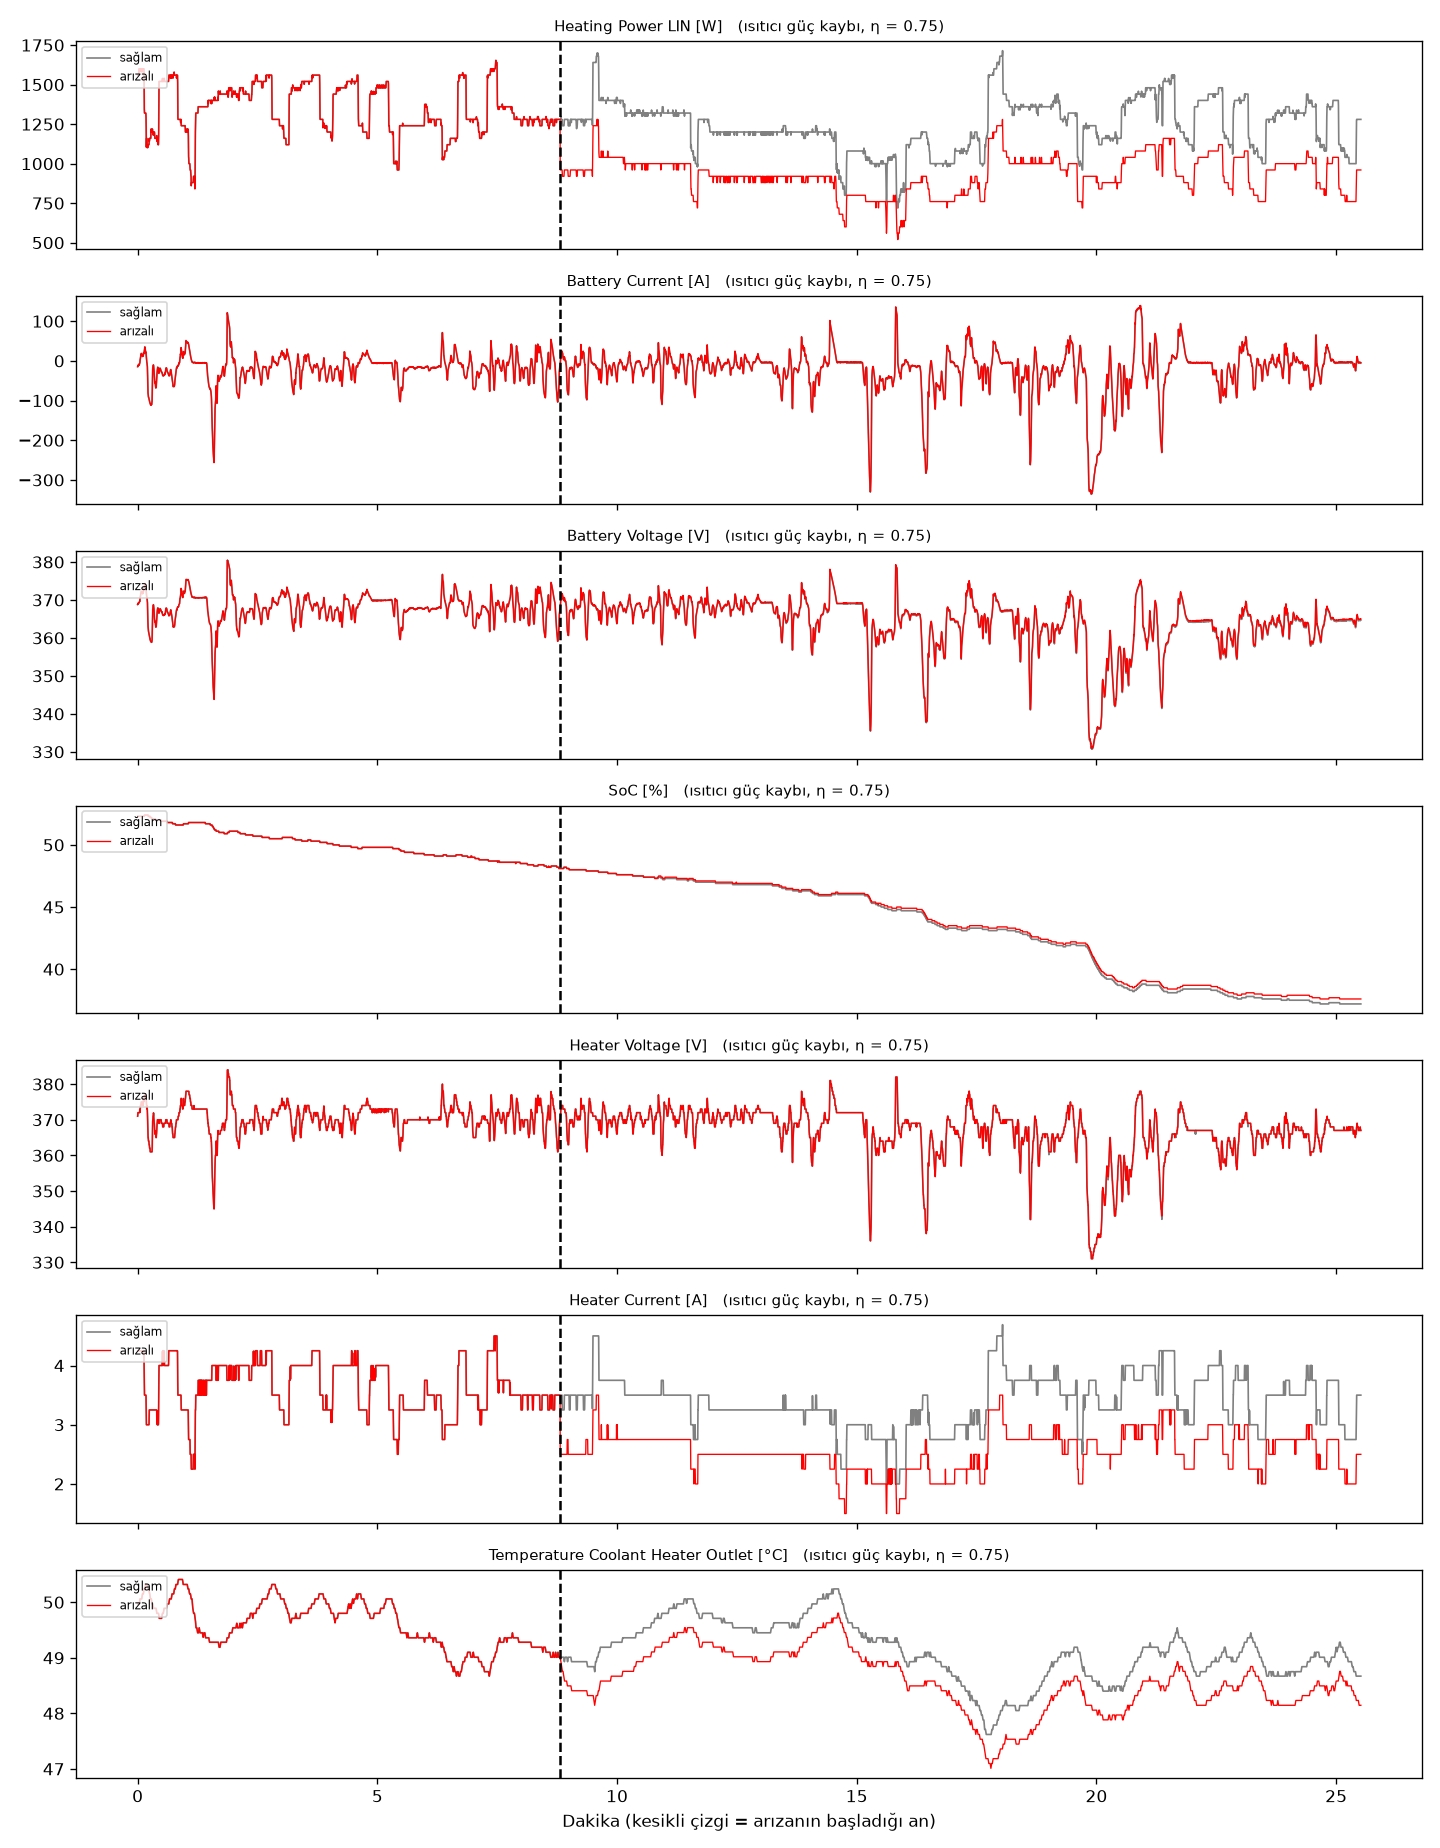
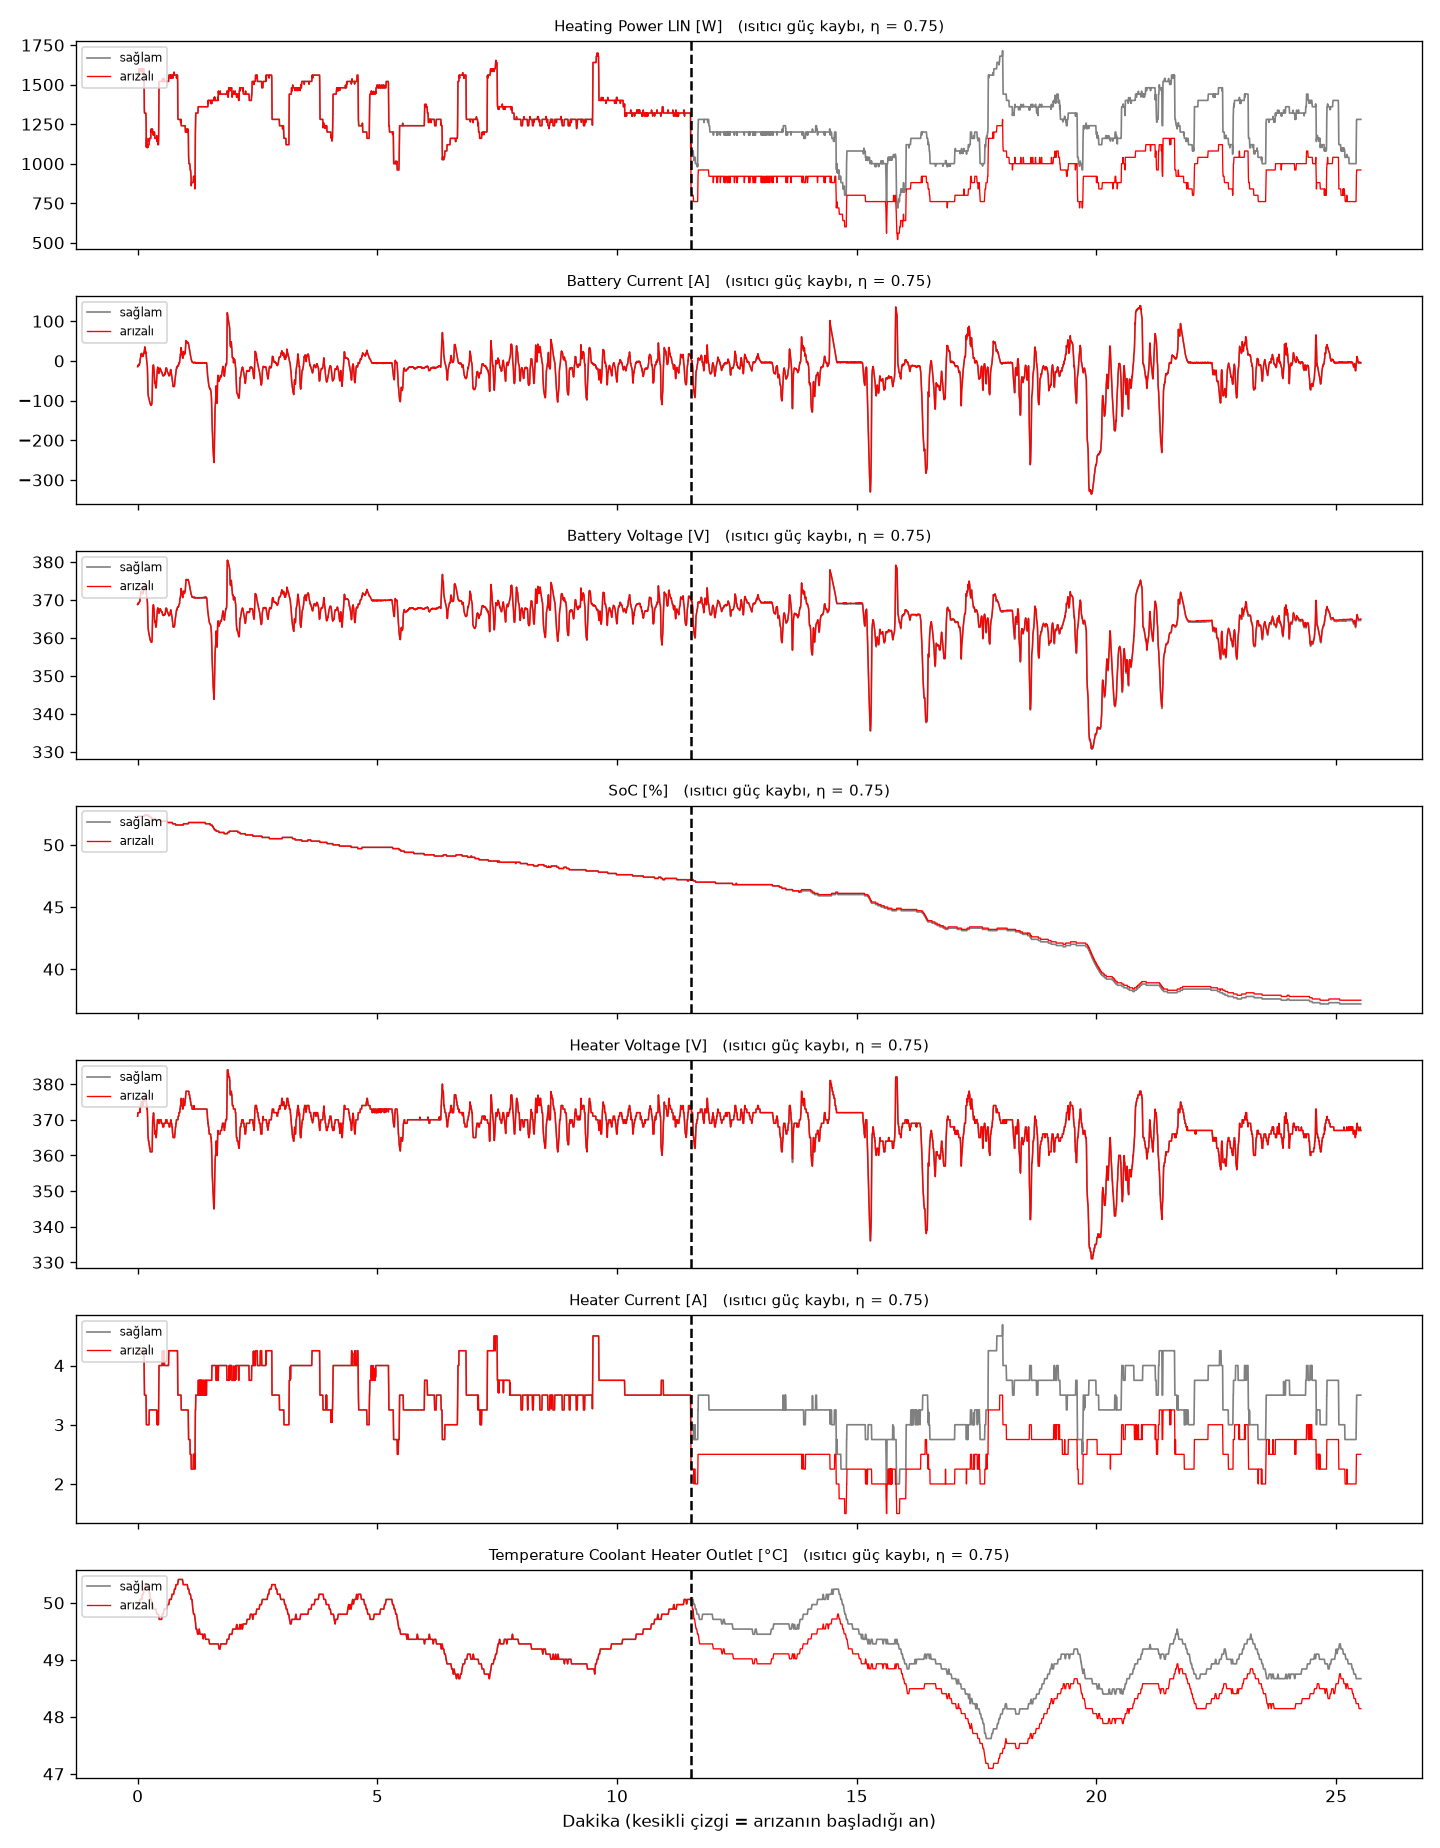
fault injection

diff --git a/ariza/arizalar.py b/ariza/arizalar.py
@@ -11,6 +11,9 @@ from scipy.signal import lfilter
 # [Tez-O]  Otel ısı pompası tezi – ısı dengesi Q = ṁ·c_p·ΔT (Eq 4.26)
 # [Rint]   Steger 2022 (Eq 9), Ng 2009 – batarya modeli V = V₀(SoC) + R·I  (+ akım = şarj)
 # [Meckel] Meckel vd. – arıza başladıktan sonra kalıcıdır (§II.B)
+# [Grandjean] Grandjean vd. 2018, Batteries 4(4) 49, §1 – "EOL is commonly defined as being attained when the
+#          battery internal resistance has doubled" (hibrit araçlar için; kaynağı [Farmann] Farmann vd. 2015,
+#          J. Power Sources 281, 114–130). Aynı yerde: direnç artışı gücü sınırlar ve ek ısı üretir [Vetter 2005]
 #
 # Her hesabın yanında üç etiketten biri var:
 #   KAYNAKTAN       : formül kaynakta aynen var
@@ -310,3 +313,64 @@ def pompa_debi_kaybi(s, n0, eta, p):
     if p["debi_olculen"]:
         y["debi"][n0:] = (s["debi"][n0:] + 500) * eta - 500
     return y
+
+
+# ---------------------------------------------------------------------------
+# 5) BATARYA İÇ DİRENÇ ARTIŞI (bataryanın kendisinin yaşlanması)
+# ---------------------------------------------------------------------------
+
+def batarya_direnc_artisi(s, n0, k, p):
+    # BATARYA ARIZASI: sensör değil bataryanın kendisi yaşlanmış → iç direnci k katına çıkmış: R' = k·R
+    # Şiddet k = 1.33 ve 2:
+    #   k = 2    KAYNAKTAN [Grandjean §1, Farmann'a atfen]: direnç iki katına çıkınca ömür sonu (hibrit araç ölçütü;
+    #            i3 tam elektrikli olduğu için tezde "ağır yaşlanma senaryosu" olarak sunulacak)
+    #   k = 1.33 BİZİM KARARIMIZ: Yue'nin η = 0.75 şiddeti dirence R' = R/η olarak uygulanmış hâli
+    #            (η = 0.5 → R/0.5 = 2R, yani Grandjean'ın ömür sonu ile aynı nokta)
+    # s: sinyaller (V_bat, I_bat, SoC, V_isi, I_isi, P_isi), p: veriden sabitler (R: o sürüşün direnci, b, Q, hv_ortak)
+    #
+    # NE DEĞİŞİR: batarya gerilimi, batarya akımı, SoC, (aynı hattaysa) ısıtıcı gerilimi ve akımı
+    # NE DEĞİŞMEZ: ısıtıcı gücü (ısıtıcı istenen gücü vermeye devam eder), su sıcaklıkları, hız
+    # SINIRLILIK:
+    #   - Batarya sıcaklığı: ek ısı ΔR·I² [Tez-B Eq 3.10, Grandjean §1] gerçekte bataryayı ısıtır; bataryanın ısı
+    #     kapasitesi C verimizde olmadığı için değiştirilmez
+    #   - BMS'in güç sınırlaması (derating) modellenmez; istenen güç verilemiyorsa batarya en yüksek gücünde tutulur
+    #   - Rint modeli şarj ve deşarjda aynı direnci kullanır (gerçekte şarjda %5–20 farklı olabilir [Grandjean §3.3.3])
+    y = {kk: v.astype(float).copy() for kk, v in s.items()}
+    R, R2 = p["R"], k * p["R"]
+    V, I = s["V_bat"][n0:], s["I_bat"][n0:]
+
+    # 1) Boştaki gerilim — KAYNAKTAN [Rint]: V = V₀ + R·I  →  V₀ = V − R·I  (R bu sürüşün kendi verisinden)
+    V0 = V - R * I
+    # 2) Bataryadan istenen güç DEĞİŞMEZ: motor ve ısıtıcı aynı gücü ister — TÜRETME [Tez-B Eq 3.8]: P = V·I
+    P = V * I            # + şarj, − deşarj (veride + akım = şarj; R > 0 çıktığı için doğrulandı)
+
+    def akim(V0):
+        # TÜRETME [Rint + Tez-B Eq 3.8]: V' = V₀ + R'·I'  ve  V'·I' = P  →  R'·I'² + V₀·I' − P = 0
+        #   I' = (−V₀ + √(V₀² + 4·R'·P)) / (2·R')   (P = 0 iken I' = 0 veren fiziksel kök)
+        # Kök içi negatifse batarya o gücü veremez (yaşlı batarya gücü sınırlar [Grandjean §1]);
+        # bu durumda verebileceği en yüksek güçteki akım alınır: I' = −V₀ / (2·R')
+        ic = V0 ** 2 + 4 * R2 * P
+        return (-V0 + np.sqrt(np.clip(ic, 0, None))) / (2 * R2), int(np.sum(ic < 0))
+
+    # 3) Yeni akım ve SoC — iki adımda: önce SoC değişimi ihmal edilerek akım bulunur, sonra
+    #    SoC farkının boştaki gerilime etkisi (b·ΔSoC) eklenip akım yeniden hesaplanır
+    #    TÜRETME [Tez-B Eq 3.26]: ΔSoC = ∫ΔI dt / Q ;  [Rint]: V₀ SoC'ye bağlı → ΔV₀ = b·ΔSoC
+    I2, _ = akim(V0)
+    dSoC = 100 * np.cumsum(I2 - I) * DT / 3600 / p["Q"]
+    I2, sinirli = akim(V0 + p["b"] * dSoC)
+    dSoC = 100 * np.cumsum(I2 - I) * DT / 3600 / p["Q"]
+    V2 = V0 + p["b"] * dSoC + R2 * I2
+    # Örnek: R = 0.12 → R' = 0.24 ohm, I = −100 A, V = 360 V → V₀ = 372 V, P = −36 kW
+    #        I' = (−372 + √(372² − 4·0.24·36000)) / 0.48 ≈ −103.7 A,  V' = 372 − 0.24·103.7 ≈ 347.1 V
+    #        → gerilim ~12.9 V daha düşük, akım ~%3.7 daha büyük (aynı 36 kW için)
+    y["V_bat"][n0:] = V2
+    y["I_bat"][n0:] = I2
+    y["SoC"][n0:] = s["SoC"][n0:] + dSoC
+
+    # 4) Isıtıcı — aynı yüksek gerilim hattındaysa (veride kontrol edilir) gerilimi bataryayla birlikte değişir;
+    #    ısıtıcı aynı gücü verdiği için akımı TÜRETME [Tez-B Eq 3.8]: I_ısıtıcı' = P_ısıtıcı / V_ısıtıcı'
+    if p["hv_ortak"]:
+        Vi = s["V_isi"][n0:] + (V2 - V)
+        y["V_isi"][n0:] = Vi
+        y["I_isi"][n0:] = np.where(Vi > 1, s["P_isi"][n0:] / np.where(Vi > 1, Vi, 1), s["I_isi"][n0:])
+    return y, sinirli

diff --git a/ariza/enjekte_et.py b/ariza/enjekte_et.py
@@ -6,7 +6,7 @@ import pandas as pd
 import matplotlib.pyplot as plt
 from arizalar import (SENSOR_ARIZALARI, SADECE_ORAN_OLCEKLI, aralik, sensor_arizasi, olcum_ozellikleri, olcum_zinciri,
                       ic_direnc, ocv_egimi, kapasite, isitici_olcegi, isitici_zaman_sabiti, isitici_guc_kaybi,
-                      pompa_debi_kaybi)
+                      pompa_debi_kaybi, batarya_direnc_artisi)
 
 ANA_KLASOR = os.path.dirname(os.path.dirname(os.path.abspath(__file__)))
 TEMIZ = os.path.join(ANA_KLASOR, "data", "clean_B")
@@ -33,7 +33,12 @@ POMPA_DEGISEN = ["T_cikis", "debi"]
 # Veri seti açıklamasında sütunun "ölçülen debi" olduğu yazıyorsa True yap
 DEBI_OLCULEN = False
 
-ARIZA_TIPLERI = SENSOR_ARIZALARI + ["isitici_guc_kaybi", "pompa_debi_kaybi"]
+# batarya iç direnç arızasında kullanılan sinyaller; ısıtıcı gücü yalnızca ısıtıcı akımını hesaplamak için
+BAT_SUTUN = {"V_bat": V_BAT, "I_bat": I_BAT, "SoC": SOC, "V_isi": ISI_V, "I_isi": ISI_I, "P_isi": ISI_P}
+# Direnç artışı k — KAYNAKTAN [Grandjean]: k = 2 ömür sonu; k = 1.33 BİZİM KARARIMIZ (Yue η = 0.75 → R/η)
+K_DEGERLERI = [4 / 3, 2.0]
+
+ARIZA_TIPLERI = SENSOR_ARIZALARI + ["isitici_guc_kaybi", "pompa_debi_kaybi", "batarya_direnc_artisi"]
 
 # BİZİM KARARIMIZ (fiziksel gerekçe arizalar.py'de): kazanç ve tam arıza yalnızca gerilim ve akıma
 TUM_SENSORLER = [V_BAT, I_BAT, T_BAT]
@@ -125,7 +130,8 @@ shutil.rmtree(CIKTI, ignore_errors=True)
 os.makedirs(CIKTI)
 os.makedirs(RAPOR, exist_ok=True)
 
-liste, ornekler, isitici_ornek, pompa_ornek = [], [], None, None
+liste, ornekler, isitici_ornek, pompa_ornek, batarya_ornek = [], [], None, None, None
+guc_sinirli = 0          # yaşlı bataryanın istenen gücü veremediği satır sayısı
 for ad, d in veri.items():
     N = len(d)
 
@@ -159,6 +165,19 @@ for ad, d in veri.items():
             degisen = CIKIS
             if ad == ORNEK_SURUS:
                 pompa_ornek = (eta, n0, d, a)
+        elif tip == "batarya_direnc_artisi":
+            kat = float(rng.choice(K_DEGERLERI))
+            p = {"R": R_surus[ad], "b": b, "Q": Q, "hv_ortak": hv_ortak}
+            yeni, sinirli = batarya_direnc_artisi({k: d[c].to_numpy() for k, c in BAT_SUTUN.items()}, n0, kat, p)
+            guc_sinirli += sinirli
+            for k, c in BAT_SUTUN.items():
+                if not np.array_equal(yeni[k], d[c].to_numpy()):     # değişmeyen sütuna dokunulmaz
+                    a[c] = olcum_zinciri(yeni[k], n0, *OLCUM[c], REF[c])
+            # şiddet = direncin bağıl artışı (k − 1): 0.33 ya da 1.0
+            sinyal, siddet, ar = V_BAT, kat - 1, np.nan
+            degisen = V_BAT
+            if ad == ORNEK_SURUS:
+                batarya_ornek = (kat, n0, d, a)
         else:
             # BİZİM KARARIMIZ: arızalı sensör izin verilen sensörlerden rastgele seçilir
             sinyal = str(rng.choice(ORAN_SENSORLERI if tip in SADECE_ORAN_OLCEKLI else TUM_SENSORLER))
@@ -208,6 +227,8 @@ print(pd.crosstab(l["ariza_tipi"], l["grup"]).to_string())
 print("\nArıza tipi × sensör:")
 print(pd.crosstab(l["ariza_tipi"], l["ariza_sinyali"]).to_string())
 print("\nArızalı satır oranı (ortalama):", round(l["arizali_oran"].mean(), 2))
+print(f"Batarya direnç arızasında istenen gücün verilemediği satır: {guc_sinirli} "
+      f"(bu satırlarda batarya en yüksek gücünde tutuldu; BMS güç sınırlaması modellenmedi)")
 print("\nArızalı satırlarda sinyalin gerçekten değiştiği oran (arıza tipi × sensör, ortalama):")
 print(l.pivot_table(index="ariza_tipi", columns="ariza_sinyali", values="degisen_oran", aggfunc="mean").round(2).to_string())
 gorunmez = l[~l["kullanilabilir"]]
@@ -255,6 +276,16 @@ if ornekler:
     ax[-1].set_xlabel("Dakika (kesikli çizgi = arızanın başladığı an)")
     plt.tight_layout()
     plt.savefig(os.path.join(RAPOR, f"{ORNEK_SURUS[:-4]}_pompa_ayrinti.png"), dpi=120)
+
+    # Batarya iç direnç arızasında birlikte değişen sinyaller (ısıtıcı gücü değişmez)
+    kat, n0, d, a = batarya_ornek
+    fig, ax = plt.subplots(len(BAT_SUTUN), 1, figsize=(12, 2.2 * len(BAT_SUTUN)), sharex=True)
+    t = np.arange(len(d)) * 0.1 / 60
+    for k, c in enumerate(BAT_SUTUN.values()):
+        ciz(ax[k], t, d[c], a[c], n0, f"{c}   (batarya iç direnç ×{kat:.2f})")
+    ax[-1].set_xlabel("Dakika (kesikli çizgi = arızanın başladığı an)")
+    plt.tight_layout()
+    plt.savefig(os.path.join(RAPOR, f"{ORNEK_SURUS[:-4]}_batarya_ayrinti.png"), dpi=120)
     plt.show()
 else:
     print(f"\n{ORNEK_SURUS} bulunamadı, grafik çizilmedi")
